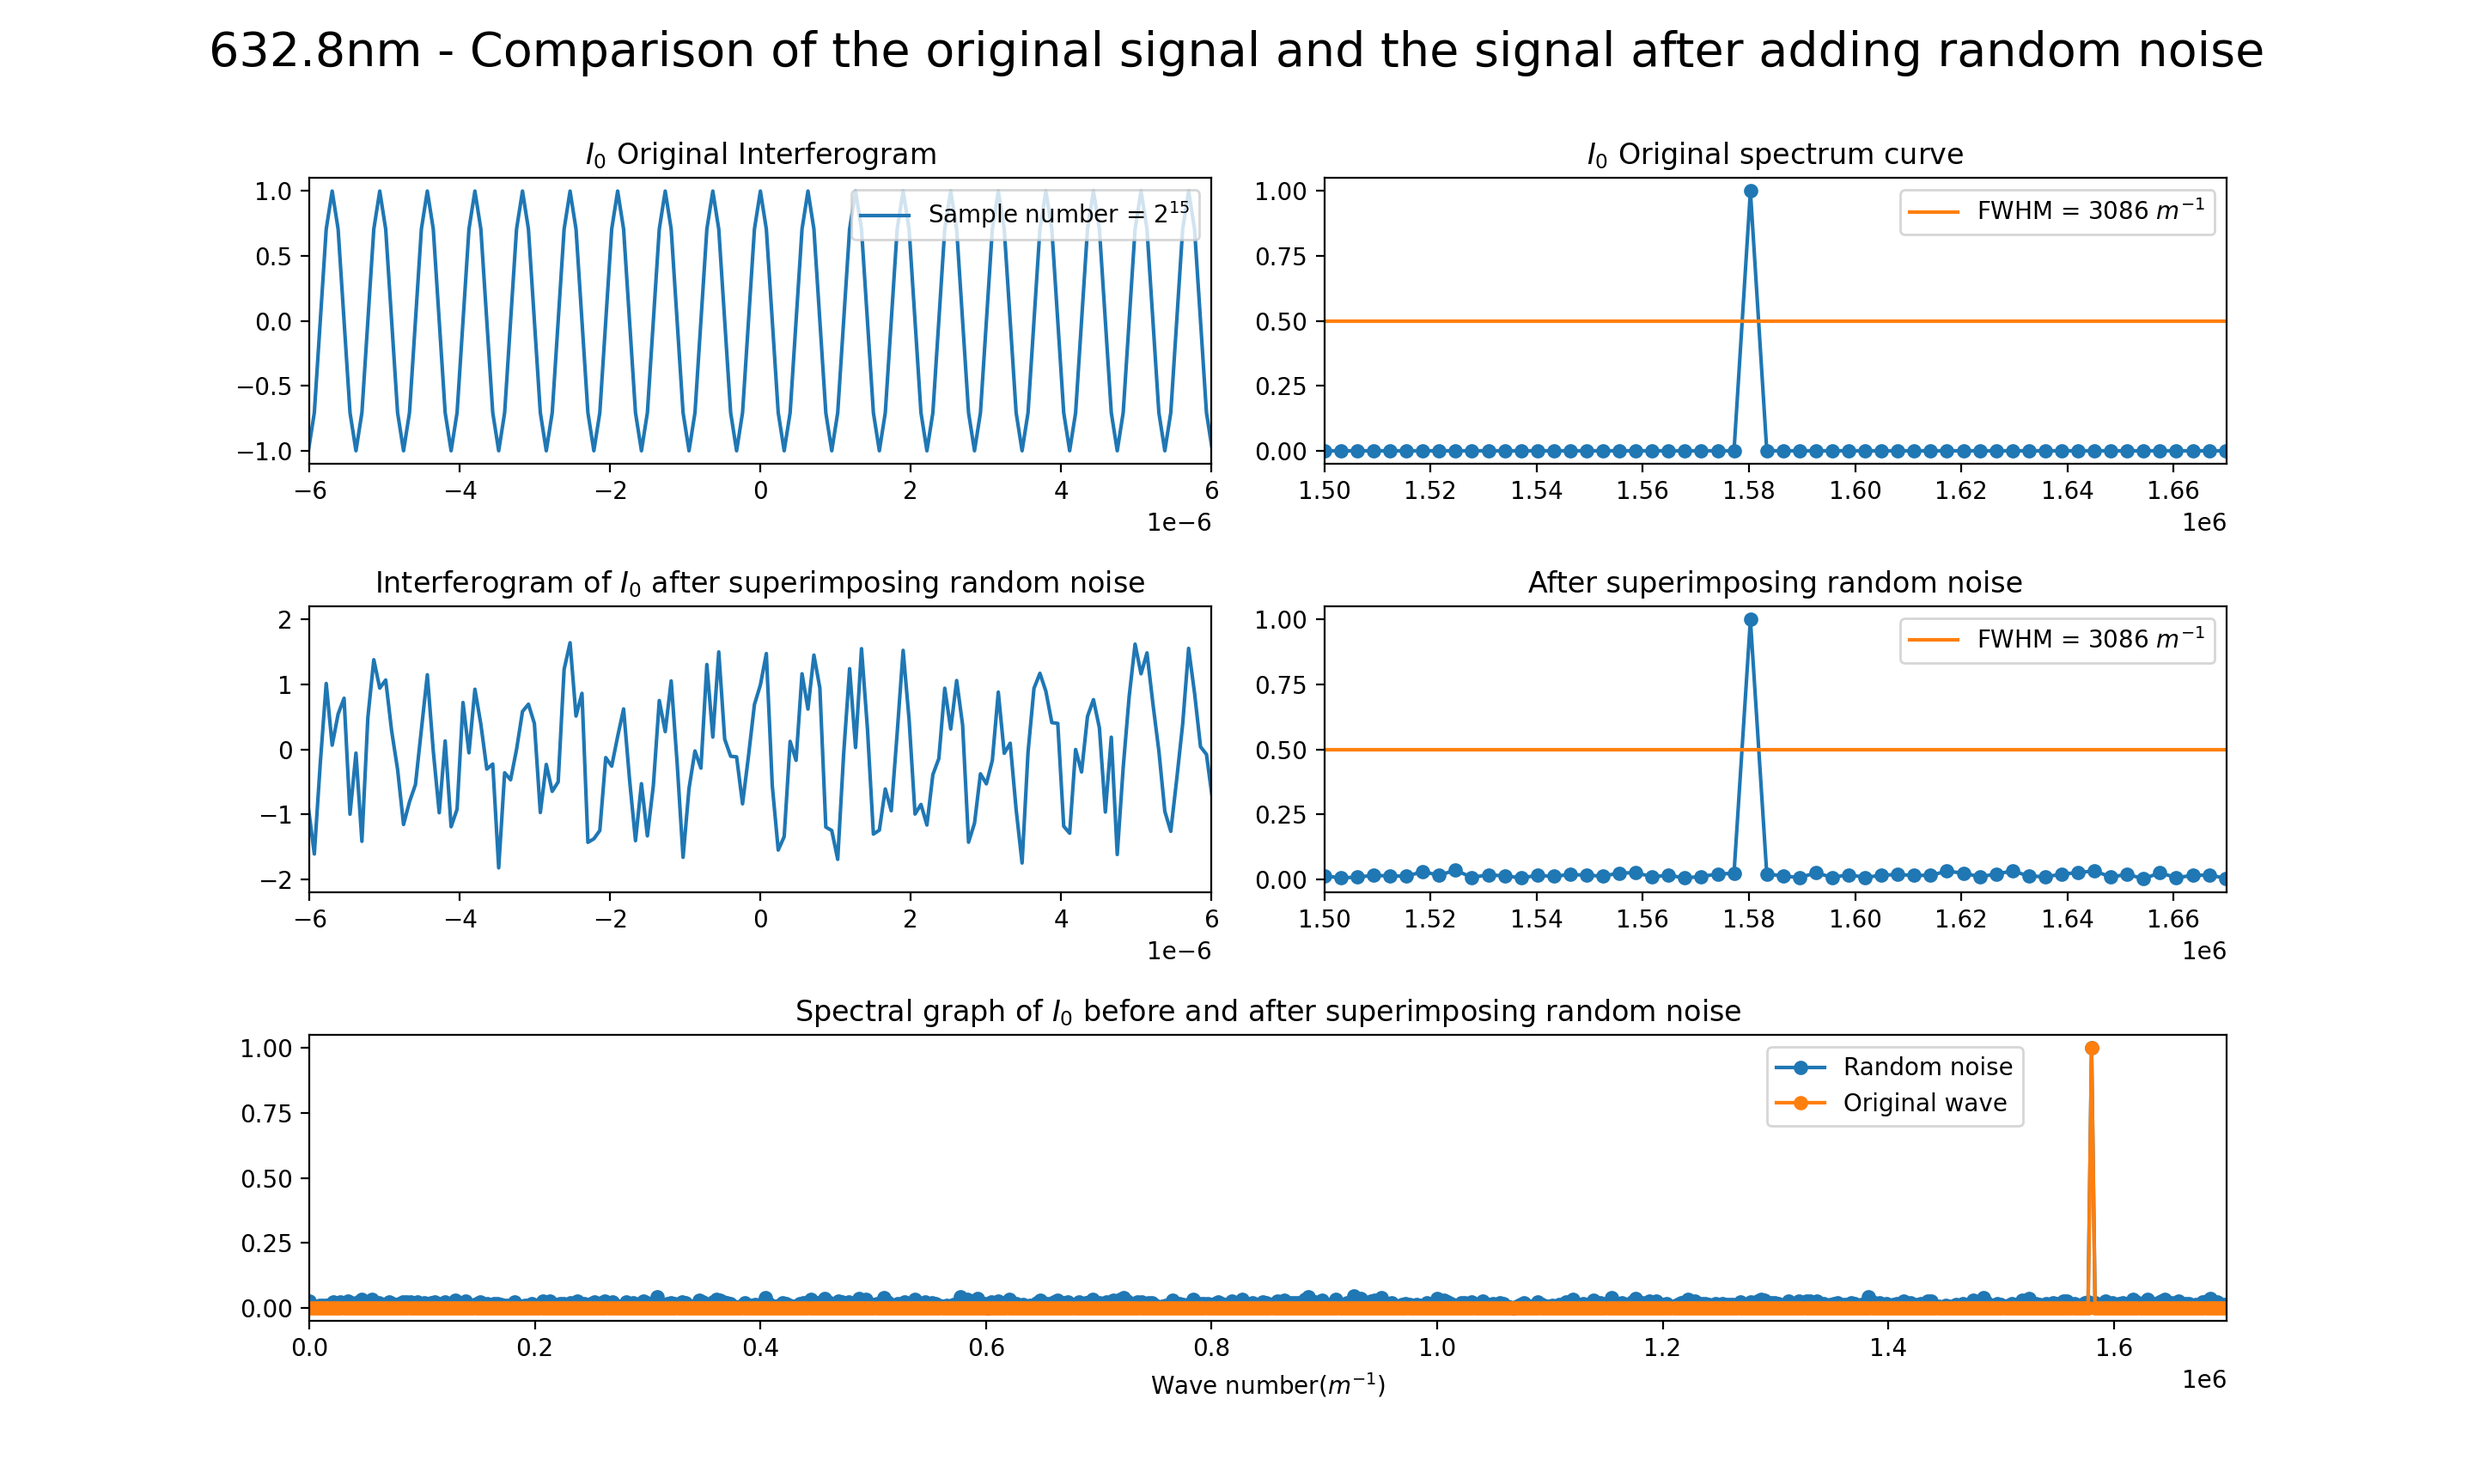
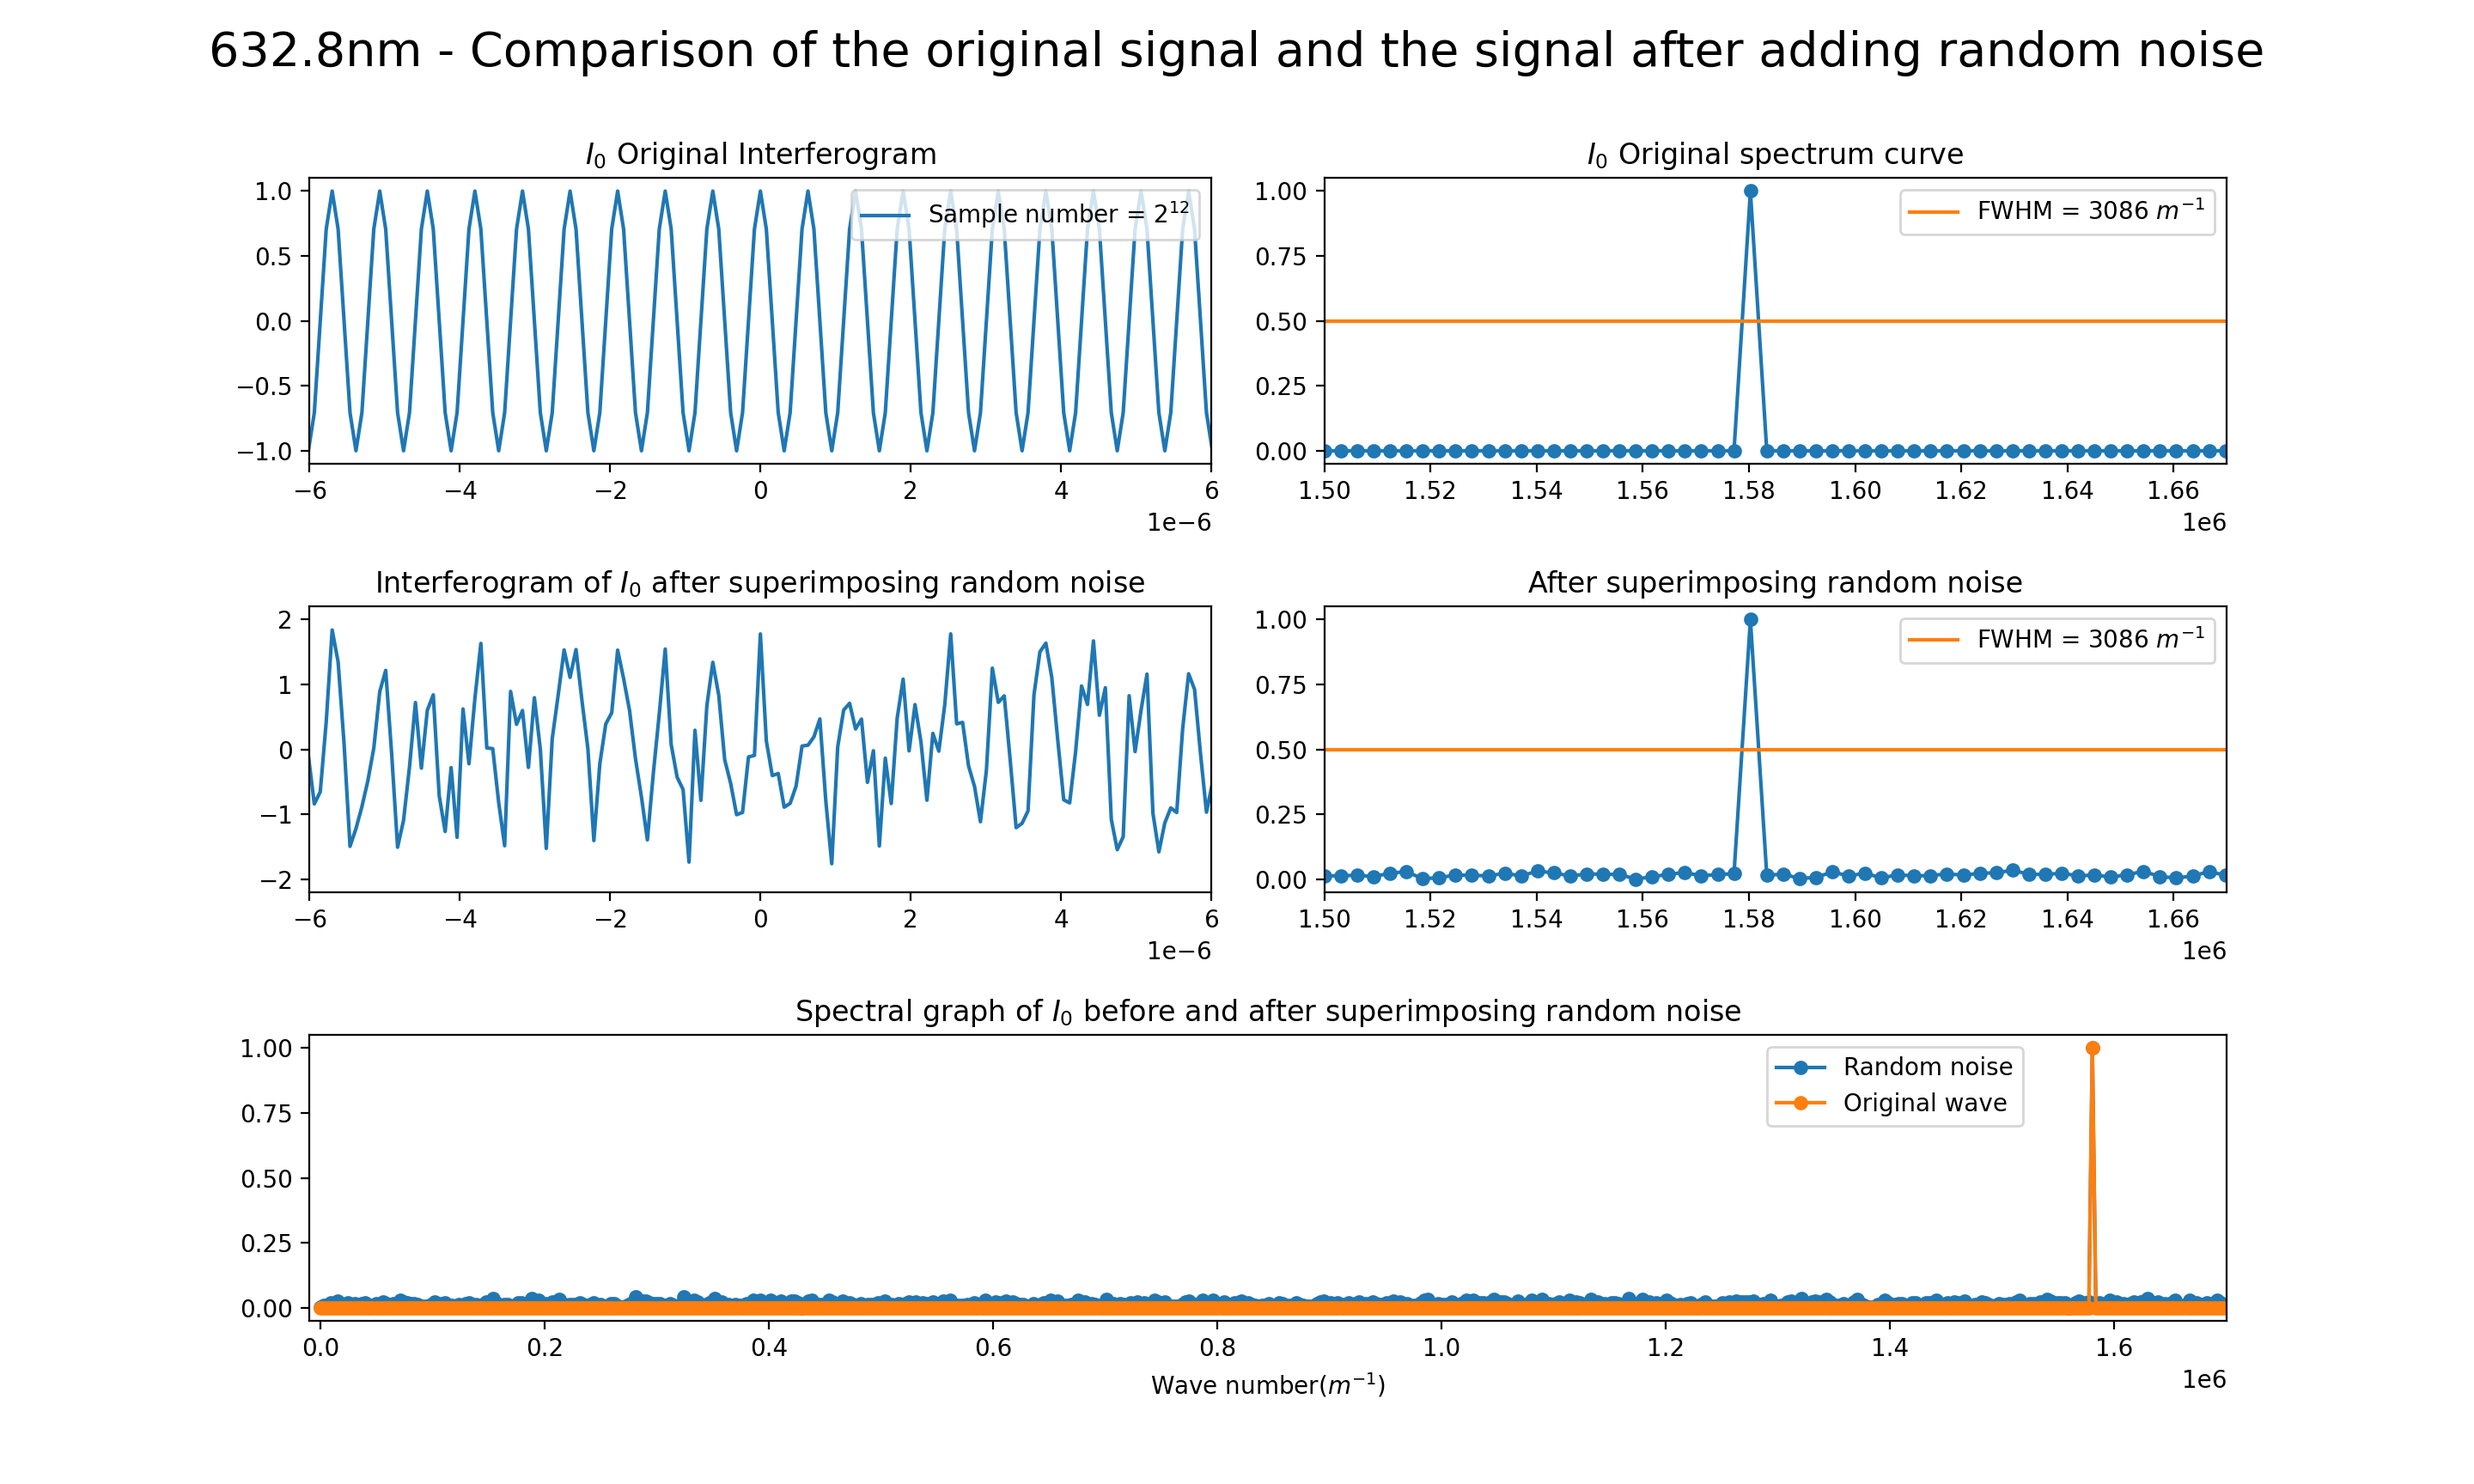
修复随机误差显示错误

diff --git a/作业5/代码/532nm/随机误差影响/ex5_532_random.py b/作业5/代码/532nm/随机误差影响/ex5_532_random.py
@@ -48,8 +48,8 @@ fs_0 = 1/i*np.arange(n0/2)/n0
 #####################################################################################
 #  此部分为叠加随机噪声
 #####################################################################################
-# noise_rand = [random.uniform(-1, 1) for _ in range(len(x0))]
-noise_rand = [random.uniform(0, 1) for _ in range(len(x0))]
+noise_rand = [random.uniform(-1, 1) for _ in range(len(x0))]
+# noise_rand = [random.uniform(0, 1) for _ in range(len(x0))]
 
 Iw1 = I0 + noise_rand
 
@@ -67,7 +67,7 @@ gs.update(wspace=0.5, hspace=0.5)
 
 subplot(gs[0, 0:3])
 s1, = plt.plot(x0, I0)
-plt.legend(handles=[s1],labels=['Sample number = $2^{15}$'], loc='upper right')
+plt.legend(handles=[s1],labels=['Sample number = $2^{12}$'], loc='upper right')
 plt.xlim(-6*(10**(-6)), 6*(10**(-6)))
 plt.title("$I_0$ Original Interferogram")
 

diff --git a/作业5/代码/632_8nm/随机误差影响/ex5_632_8_random.py b/作业5/代码/632_8nm/随机误差影响/ex5_632_8_random.py
@@ -48,8 +48,8 @@ fs_0 = 1/i*np.arange(n0/2)/n0
 #####################################################################################
 #  此部分为叠加随机噪声
 #####################################################################################
-# noise_rand = [random.uniform(-1, 1) for _ in range(len(x0))]
-noise_rand = [random.uniform(0, 1) for _ in range(len(x0))]
+noise_rand = [random.uniform(-1, 1) for _ in range(len(x0))]
+# noise_rand = [random.uniform(0, 1) for _ in range(len(x0))]
 
 Iw1 = I0 + noise_rand
 
@@ -67,7 +67,7 @@ gs.update(wspace=0.5, hspace=0.5)
 
 subplot(gs[0, 0:3])
 s1, = plt.plot(x0, I0)
-plt.legend(handles=[s1],labels=['Sample number = $2^{15}$'], loc='upper right')
+plt.legend(handles=[s1],labels=['Sample number = $2^{12}$'], loc='upper right')
 plt.xlim(-6*(10**(-6)), 6*(10**(-6)))
 plt.title("$I_0$ Original Interferogram")
 
